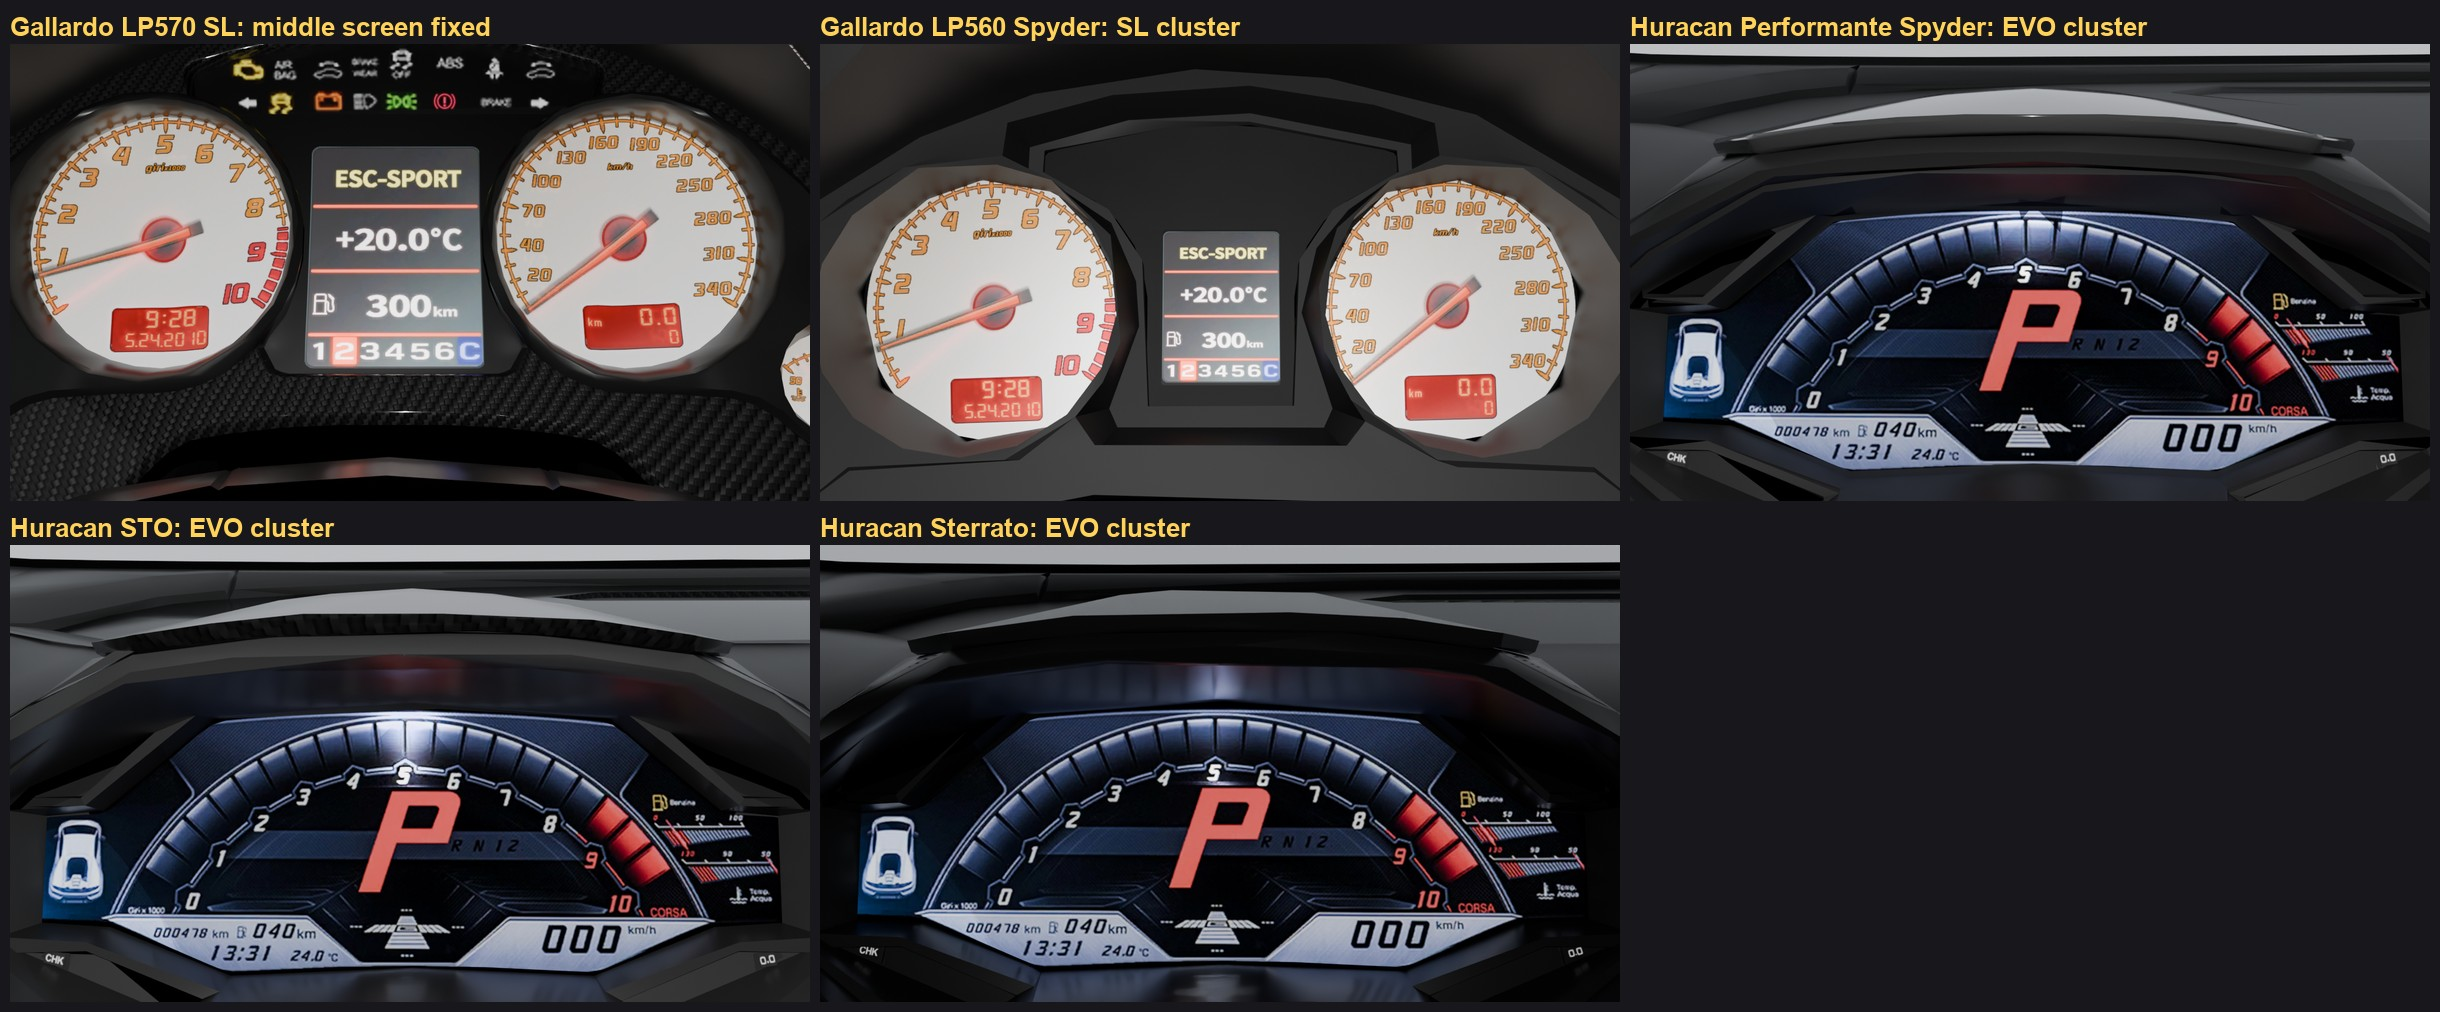
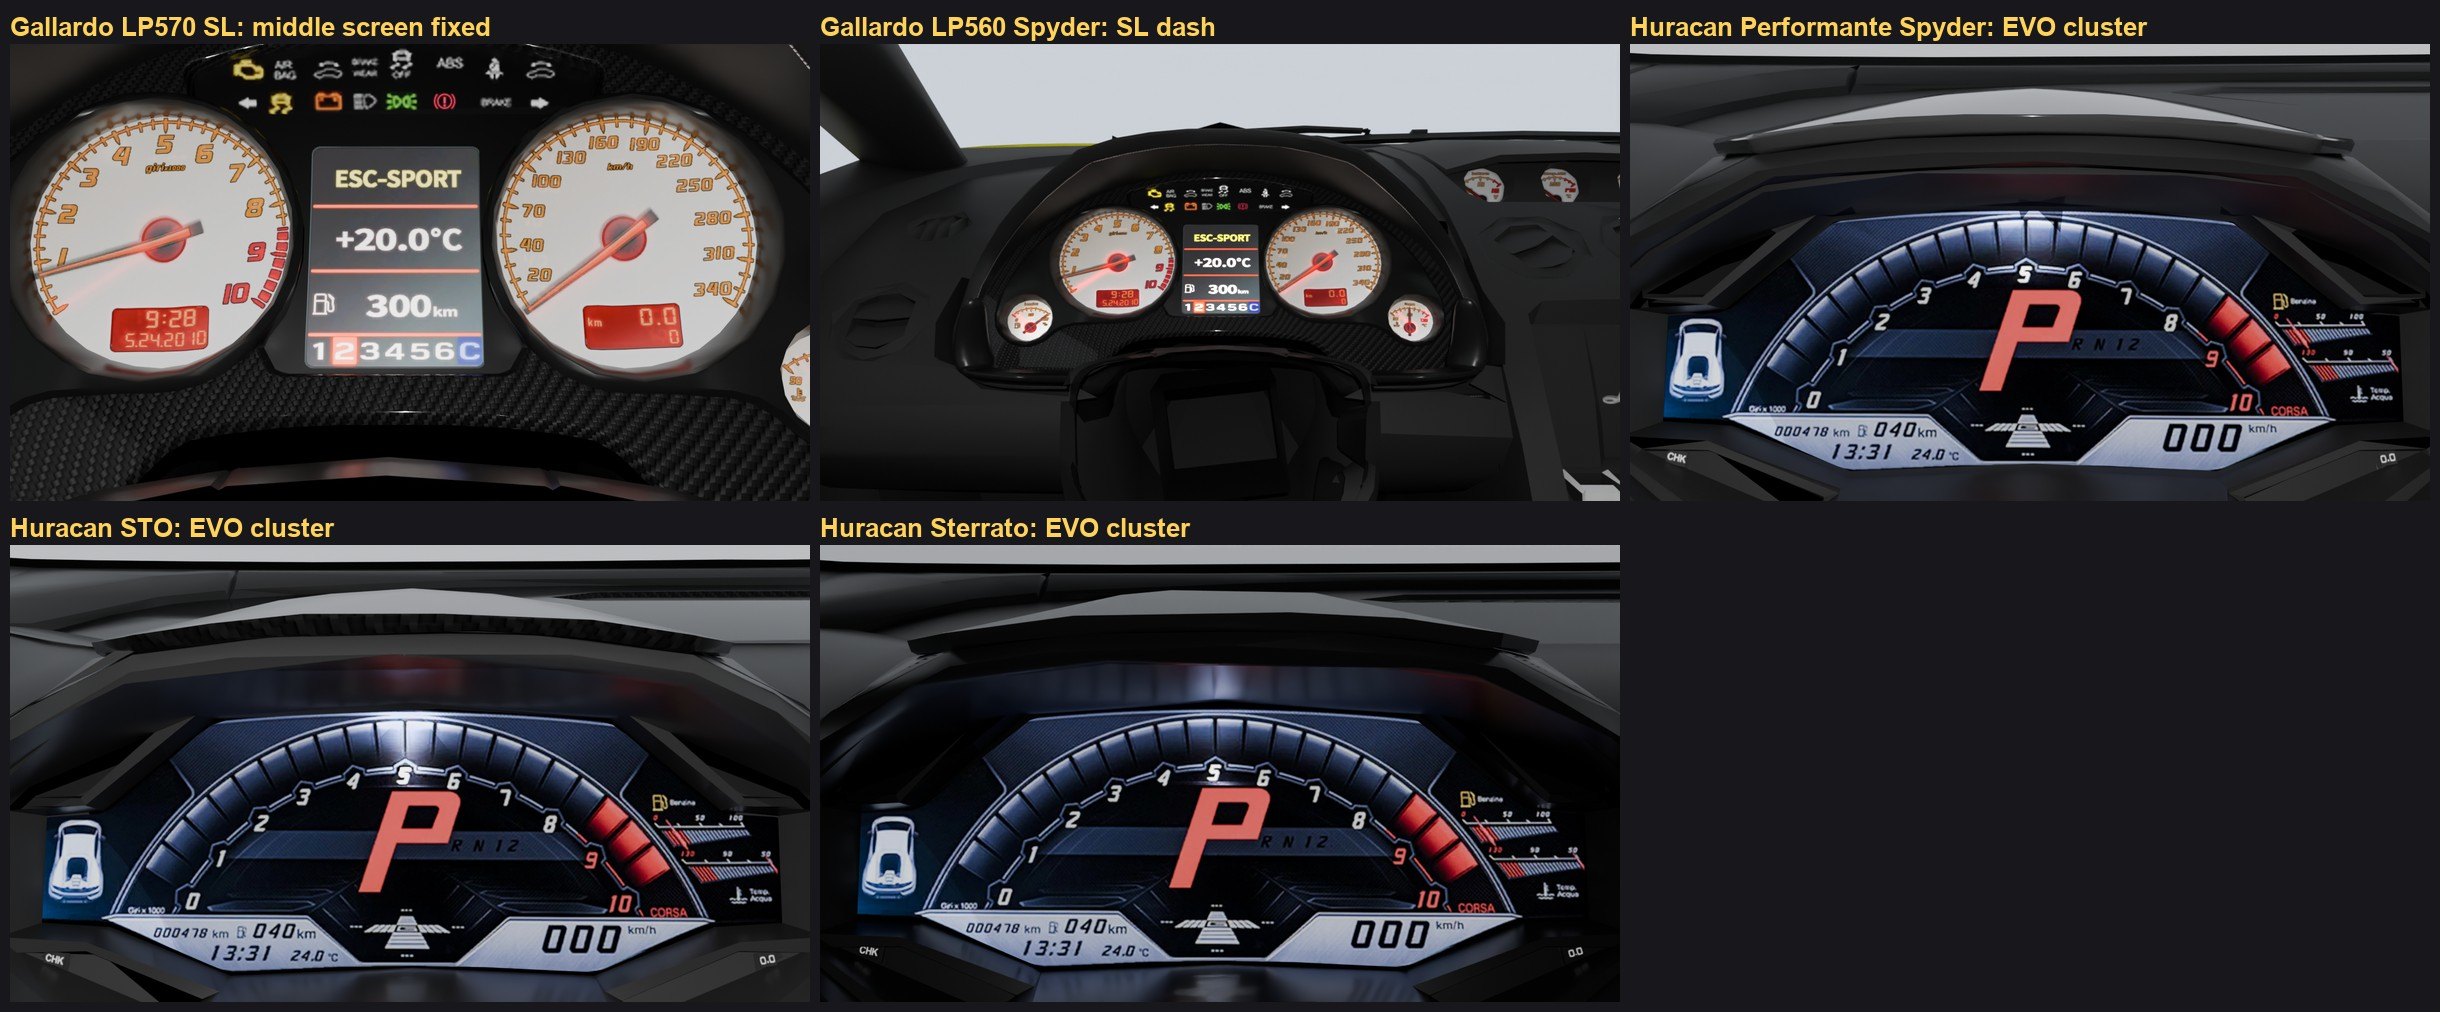
City Legends: SV cluster gear N traced from the owner's photo; the Superleggera's binnacle moved into the LP560 Spyder (hood, carbon panel, dials, warning lights); previews only; notes

Changed region(s): [[0.3115, 0.0, 0.6852, 0.5208]]

diff --git a/Games/CityLegends/tools/lambo/gallardo_dash.py b/Games/CityLegends/tools/lambo/gallardo_dash.py
@@ -1,0 +1,128 @@
+"""The Superleggera's instrument binnacle in the LP560-4 Spyder (owner, 2026-11-04: "make the LP560
+dashboard look a bit better, you can copy from the SL"). The Spyder's own hood and dials are a few
+hundred flat faces. The SL's hood, carbon panel, dial cowls, warning lights and dials are moved in,
+with the Spyder's own cut away first.
+
+    blender -b --python tools/lambo/gallardo_dash.py -- spyder.blend sl_fixed.blend out.blend
+
+spyder.blend: the plain conversion. sl_fixed.blend: the SL with its middle screen fixed.
+"""
+
+import os
+import sys
+
+sys.path.insert(0, os.path.dirname(os.path.abspath(__file__)))
+from mesh_cut import delete_faces  # noqa: E402
+
+import bmesh
+import bpy
+from mathutils import Vector
+
+args = sys.argv[sys.argv.index("--") + 1:]
+car, donor, out = args[0], args[1], args[2]
+bpy.ops.wm.open_mainfile(filepath=car)
+
+# SL -> Spyder: the middle of the two big dials
+MOVE = Vector((0.3657 - 0.3608, -0.75 + 0.7283, 0.7503 - 0.7924))
+KEEP = ("SeeThrough_SLMI_Cabin1", "SeeThrough_SLMI_Carbon_A1", "SeeThrough_SLMI_Cabin_Suede_A1", "Body_SLMI_Cabin1", "SeeThrough_SLMI_Cabin_A1", "Body_SLMI_Dashboard1")
+# what's taken, in the SL's own numbers
+X0, X1 = 0.125, 0.60
+Y0, Y1 = -0.84, -0.56
+Z0, Z1 = 0.655, 0.93
+
+
+def in_box(p):
+    return X0 < p.x < X1 and Y0 < p.y < Y1 and Z0 < p.z < Z1
+
+
+with bpy.data.libraries.load(donor) as (src, dst):
+    dst.objects = [n for n in src.objects if n.split(".")[0] in KEEP]
+donors = [o for o in dst.objects if o is not None]
+home = next(o for o in bpy.data.objects if o.name == "Body_MMAT_Details_MAT1")
+coll = home.users_collection[0]
+taken = 0
+for o in donors:
+    bm = bmesh.new()
+    bm.from_mesh(o.data)
+    m = o.matrix_world
+    bm.faces.ensure_lookup_table()
+    seen = set()
+    drop = []
+    for f in bm.faces:
+        if f.index in seen:
+            continue
+        stack, isl = [f], []
+        seen.add(f.index)
+        while stack:
+            g = stack.pop()
+            isl.append(g)
+            for e in g.edges:
+                for h in e.link_faces:
+                    if h.index not in seen:
+                        seen.add(h.index)
+                        stack.append(h)
+        pts = [m @ v.co for g in isl for v in g.verts]
+        lo = Vector((min(p.x for p in pts), min(p.y for p in pts), min(p.z for p in pts)))
+        hi = Vector((max(p.x for p in pts), max(p.y for p in pts), max(p.z for p in pts)))
+        size = (hi - lo).length
+        c = sum(pts, Vector()) / len(pts)
+        if size > 0.75:
+            # a big shell: only its faces inside the box
+            drop += [g for g in isl if not in_box(m @ g.calc_center_median())]
+        elif not in_box(c):
+            drop += isl
+    bmesh.ops.delete(bm, geom=drop, context="FACES")
+    if not bm.faces:
+        bm.free()
+        continue
+    for v in bm.verts:
+        v.co = m @ v.co + MOVE
+    me = bpy.data.meshes.new("x")
+    bm.to_mesh(me)
+    taken += len(bm.faces)
+    bm.free()
+    for p in me.polygons:
+        p.use_smooth = True
+    name = "Body_SL_" + o.name.split("_", 2)[-1].split(".")[0]
+    ob = bpy.data.objects.new(name, me)
+    for s in o.material_slots:
+        me.materials.append(s.material)
+    coll.objects.link(ob)
+print("DASH taken faces", taken)
+
+# the Spyder's own: its cluster faces, and the hood in the same box
+# (only what the new binnacle covers: the dash under it and at its sides stays, or it leaves holes)
+LO = Vector((0.17, -0.84, 0.655))
+HI = Vector((0.565, -0.615, 0.95))
+cut = {}
+for name in ("Body_MMAT_Details_MAT1", "Body_MMAT_Details_INT1"):
+    o = bpy.data.objects[name]
+    m = o.matrix_world
+    drop = []
+    for p in o.data.polygons:
+        c = m @ p.center
+        if LO.x < c.x < HI.x and LO.y < c.y < HI.y and LO.z < c.z < HI.z:
+            drop.append(p.index)
+    cut[name] = len(drop)
+    delete_faces(o, drop)
+print("DASH own faces cut", cut)
+# the pale plate round the three gauges in the middle of the dash goes dark too, like the SL's
+o = bpy.data.objects["Body_MMAT_Details_MAT1"]
+bm = bmesh.new()
+bm.from_mesh(o.data)
+uv = bm.loops.layers.uv.active
+m = o.matrix_world
+n = 0
+for f in bm.faces:
+    us = [l[uv].uv.x for l in f.loops]
+    vs = [l[uv].uv.y for l in f.loops]
+    c = m @ f.calc_center_median()
+    if min(us) >= 0.53 and max(us) <= 0.6 and min(vs) >= 0.33 and max(vs) <= 0.49 and c.x < 0.17 and c.z > 0.66:
+        for l in f.loops:
+            l[uv].uv = (0.072, 0.679)
+        n += 1
+bm.to_mesh(o.data)
+bm.free()
+print("DASH plate faces darkened", n)
+bpy.ops.wm.save_as_mainfile(filepath=out)
+print("DASH saved", out)

diff --git a/Games/CityLegends/tools/lambo/put_art.py b/Games/CityLegends/tools/lambo/put_art.py
@@ -8,7 +8,11 @@ the driver's left.
 Prints the screen's middle, its normal, width and height (what CarSkin.CLUSTER_RECT needs).
 """
 
+import os
 import sys
+
+sys.path.insert(0, os.path.dirname(os.path.abspath(__file__)))
+from mesh_cut import delete_faces  # noqa: E402
 
 import bmesh
 import bpy
@@ -32,26 +36,28 @@ hit, loc, nrm, idx, obj, _ = sc.ray_cast(dg, eye, d)
 while hit and obj.name.startswith("SteeringWheel"):
     hit, loc, nrm, idx, obj, _ = sc.ray_cast(dg, loc + d * 0.001, d)
 print("ART seed face", obj.name[:40], idx)
-bm = bmesh.new()
-bm.from_mesh(obj.data)
-bm.faces.ensure_lookup_table()
+me = obj.data
 m = obj.matrix_world
 rot = m.to_3x3()
-start = bm.faces[idx]
-n0 = (rot @ start.normal).normalized()
-seen = {start.index}
-stack = [start]
+edge_faces = {}
+for p in me.polygons:
+    for k in p.edge_keys:
+        edge_faces.setdefault(k, []).append(p.index)
+n0 = (rot @ me.polygons[idx].normal).normalized()
+seen = {idx}
+stack = [idx]
 faces = []
 while stack:
     f = stack.pop()
     faces.append(f)
-    for e in f.edges:
-        for g in e.link_faces:
-            if g.index not in seen:
-                seen.add(g.index)
-                if (rot @ g.normal).normalized().dot(n0) > 0.94:
+    for k in me.polygons[f].edge_keys:
+        for g in edge_faces[k]:
+            if g not in seen:
+                seen.add(g)
+                if (rot @ me.polygons[g].normal).normalized().dot(n0) > 0.94:
                     stack.append(g)
-pts = [m @ v.co for f in faces for v in f.verts]
+loops = [[m @ me.vertices[v].co for v in me.polygons[f].vertices] for f in faces]
+pts = [p for lp in loops for p in lp]
 s = Vector((-1, 0, 0))  # the driver's right
 s = (s - n0 * s.dot(n0)).normalized()
 t = n0.cross(s).normalized()
@@ -89,8 +95,8 @@ b.inputs["Specular IOR Level"].default_value = 0.0
 new = bpy.data.meshes.new("Body_ClusterArt")  # (a second run on the same car adds another part)
 nb = bmesh.new()
 uvl = nb.loops.layers.uv.new("UVMap")
-for f in faces:
-    vs = [nb.verts.new(m @ v.co + n0 * 0.0006) for v in f.verts]
+for lp in loops:
+    vs = [nb.verts.new(p + n0 * 0.0006) for p in lp]
     nf = nb.faces.new(vs)
     for l, v in zip(nf.loops, vs):
         p = v.co - centre
@@ -98,9 +104,7 @@ for f in faces:
         cv = 0.5 + (p.dot(t) / ah) + nudge[1]
         # (crop: x0, y0, x1, y1 of the picture as fractions, y from the top)
         l[uvl].uv = (crop[0] + cu * (crop[2] - crop[0]), 1 - crop[3] + cv * (crop[3] - crop[1]))
-bmesh.ops.delete(bm, geom=faces, context="FACES")
-bm.to_mesh(obj.data)
-bm.free()
+delete_faces(obj, faces)
 nb.to_mesh(new)
 nb.free()
 new.materials.append(mat)

diff --git a/Games/CityLegends/tools/lambo/cluster_art.py b/Games/CityLegends/tools/lambo/cluster_art.py
@@ -502,12 +502,24 @@ def sv(outdir):
     A.text(549, 253, "10", TECH, 24, (238, 52, 48), shear=0.24, stroke=0.45, strokecol=(255, 236, 190))
     A.line([(177, 230), (219, 253)], (240, 76, 76), 1.3, glow=(120, 20, 24), gw=2.2)
 
-    # the gear: a huge leaning N with soft corners and a thin white edge
-    N_pts = [(345, 264), (375, 180), (398, 178.5), (408, 232), (417, 178.5), (437, 178.5), (404, 262), (388, 263), (369, 214), (363, 264)]
+    # the gear: the owner's second photo, traced (2026-11-04, "make the N like this"): a heavy leaning
+    # N, its top right and bottom right corners well rounded, two narrow notches, a thin white edge.
+    # n5 numbers: pixels of the 8x crop of that photo; photo scale is about the same as the first one
+    def n5(x, y):
+        return (347.0 + (x - 300) * 0.1152, 178.5 + (y - 80) * 0.1275)
+
+    def arc(cx, cy, r, a0, a1, steps=8):
+        return [n5(cx + r * math.cos(math.radians(a0 + (a1 - a0) * k / steps)), cy + r * math.sin(math.radians(a0 + (a1 - a0) * k / steps))) for k in range(steps + 1)]
+
+    N_pts = [n5(300, 745), n5(540, 80), n5(682, 80), n5(738, 540), n5(905, 80), n5(975, 80)]
+    N_pts += arc(975, 145, 42, -90, 12)  # top right corner
+    N_pts += [n5(835, 660)]
+    N_pts += arc(745, 660, 88, 22, 90)  # bottom right corner
+    N_pts += [n5(628, 748), n5(585, 360), n5(445, 748)]
+    edge = N_pts + N_pts[:1]
+    A.line(edge, (252, 244, 214), 1.5)
     A.poly(N_pts, black)
-    A.line(N_pts + N_pts[:2], black, 2.6)
-    A.line([(437.5, 178), (404.5, 263)], (250, 238, 200), 0.6)
-    A.line([(369, 214), (363, 264.5)], (250, 238, 200), 0.5)
+    A.line(edge, black, 0.5)
 
     # the gear strip
     A.text(335, 256, "R", TECH, 17, black, shear=0.24)

diff --git a/Games/CityLegends/tools/lambo/share_evo.py b/Games/CityLegends/tools/lambo/share_evo.py
@@ -8,8 +8,12 @@ gx,gy,gz: a first guess of the offset (metres). Only the cluster's faces of `Bod
 (texture v under 0.38: the atlas also holds the centre screen and the button icons).
 """
 
+import os
 import statistics
 import sys
+
+sys.path.insert(0, os.path.dirname(os.path.abspath(__file__)))
+from mesh_cut import delete_faces  # noqa: E402
 
 import bmesh
 import bpy
@@ -112,24 +116,20 @@ cut = {}
 for o in bpy.data.objects:
     if o.type != "MESH" or o.name in donor_names or not o.name.startswith("Body_"):
         continue
-    bm = bmesh.new()
-    bm.from_mesh(o.data)
     m = o.matrix_world
     rot = m.to_3x3()
     drop = []
-    for f in bm.faces:
-        c = m @ f.calc_center_median()
+    for p in o.data.polygons:
+        c = m @ p.center
         if not inside(c, lo2, hi2):
             continue
-        n = (rot @ f.normal).normalized()
+        n = (rot @ p.normal).normalized()
         q, _, _, d = cbvh.find_nearest(c)
         if q is not None and d < 0.022 and abs(n.dot(normal)) > 0.8:
-            drop.append(f)
+            drop.append(p.index)
     if drop:
         cut[o.name[:30]] = len(drop)
-        bmesh.ops.delete(bm, geom=drop, context="FACES")
-        bm.to_mesh(o.data)
-    bm.free()
+        delete_faces(o, drop)
 print("SHARE own faces cut", cut)
 ob = bpy.data.objects.new("Body_HuracanCluster", me)
 home = next(o for o in bpy.data.objects if o.name.startswith("Body_") and o.name not in donor_names and o.users_collection)

diff --git a/Games/CityLegends/tools/lambo/mesh_cut.py b/Games/CityLegends/tools/lambo/mesh_cut.py
@@ -1,0 +1,25 @@
+"""Deleting faces without losing a model's shading. bmesh drops the custom normals a converted car
+carries, and the rest of that part then shades in dark flat shapes (the LP560 Spyder's dash), so
+they are read first and put back."""
+
+import bmesh
+
+
+def delete_faces(o, drop):
+    """o: mesh object; drop: polygon indices to delete"""
+    me = o.data
+    drop = set(drop)
+    if not drop:
+        return
+    normals = [tuple(n.vector) for n in me.corner_normals]
+    kept = []
+    for p in me.polygons:
+        if p.index not in drop:
+            kept += [normals[li] for li in p.loop_indices]
+    bm = bmesh.new()
+    bm.from_mesh(me)
+    bm.faces.ensure_lookup_table()
+    bmesh.ops.delete(bm, geom=[bm.faces[i] for i in drop], context="FACES")
+    bm.to_mesh(me)
+    bm.free()
+    me.normals_split_custom_set(kept)

diff --git a/City Legends/City Legends.md b/City Legends/City Legends.md
@@ -1198,4 +1198,6 @@ Owner: "find bugs that would annoy players and can u fix it all". Five code audi
 - **LP560 Spyder:** keeps its dial faces; each takes the SL's picture of that dial through both 3D dial planes (`share_gallardo.py`), big dials, side dials, middle screen. Its pale rings go dark (their UVs moved to the hood's dark spot). Dial outlines stay about 16-sided up close. The SL's warning-light strip is not copied: the Spyder has no place for it.
 - **Redrawn 1:1:** `tools/lambo/cluster_art.py` (every coordinate is a pixel of the owner's photo; `*_compare.jpg` lays the two together; small drawings like the car from above and the oil cans are cut from the photo). Photos in `imports/refs/*_cluster_owner.png`. `put_art.py` projects a picture onto a car's blank screen: Revuelto screen 0.2841 x 0.1006 m (aspect 2.82, the photo's is 2.79), `--scale 0.97`. SV: the model has a middle window and two angled side windows, three runs of `put_art.py` (middle `--scale 0.936 --nudge 0,0.094`; sides `--crop` + `--scale 0.88`). LP700: `lp700_atlas.py` pieces into the model's own 512 px cluster atlas (stored upside down) at 1024, so the dial lands in the model's ring.
 - **Known differences:** numbers use Sarpanch, the closest font in Roblox, not the real typeface. Static pictures so far. The SV's PARK light falls behind the hood; the screen has less room than the real one, so its picture is smaller.
+- **Owner, same day:** "SV cluster N looks a bit off" (with a second photo): the N is traced from that photo now (`cluster_art.py`): heavy, rounded top right and bottom right corners, thin white edge. "Can u make the LP560 dashboard look a bit better, you can copy from the SL": `tools/lambo/gallardo_dash.py` moves the SL's hood, carbon panel, dial cowls, warning lights and dials into the Spyder (4,583 faces), and the Spyder's own 707 faces go; this replaces `share_gallardo.py`'s dial mapping for the Spyder. The pale plate round its three middle gauges went dark too. [[Gallardo LP560 dash - before, now, the SL.jpg]] Its side vents and middle gauges are still the Spyder's own, low-poly ones.
+- **Cutting a model:** when a face's middle falls in the cut box the whole face goes, so a big dash panel can leave a hole: the first cut box left holes under the binnacle. `tools/lambo/mesh_cut.py` keeps a part's shading when faces go.
 - **Next, after the owner approves the pictures:** Step 3: logos out, convert, then make them live (rev tape, gear, speed, gauges) like the SVJ's screen. Still to compare: steering wheels per family.

diff --git a/Games/CityLegends/tools/lambo/README.md b/Games/CityLegends/tools/lambo/README.md
@@ -9,3 +9,4 @@ Paths point at the session's temp folder; change them before reuse. Results are 
 - `share_gallardo.py`: the SL's dash fixed, and its pictures on the LP560 Spyder's dials.
 - `cluster_art.py`: Revuelto, SV and LP700 clusters redrawn from the owner's photos.
 - `put_art.py`: a picture projected onto a car's blank screen. `lp700_atlas.py`: the LP700's into its model's atlas.
+- `gallardo_dash.py`: the SL's binnacle in the LP560 Spyder. `mesh_cut.py`: delete faces and keep a part's shading.

diff --git a/Games/CityLegends/imports/refs/README.md b/Games/CityLegends/imports/refs/README.md
@@ -40,3 +40,4 @@ Photos from Wikimedia Commons (licence in brackets), frames from YouTube videos 
 - `revuelto_cluster_owner.png`: Revuelto cluster, CORSA + HYBRID, gear P.
 - `aventador_sv_cluster_owner.png`: Aventador SV cluster, SPORT, gear N (a dealer's watermark in one corner).
 - `aventador_lp700_cluster_owner.png`: Aventador LP700-4 cluster, STRADA, gear N.
+- `aventador_sv_cluster_owner_2.png`: a second SV photo, the owner's reference for the gear N.
